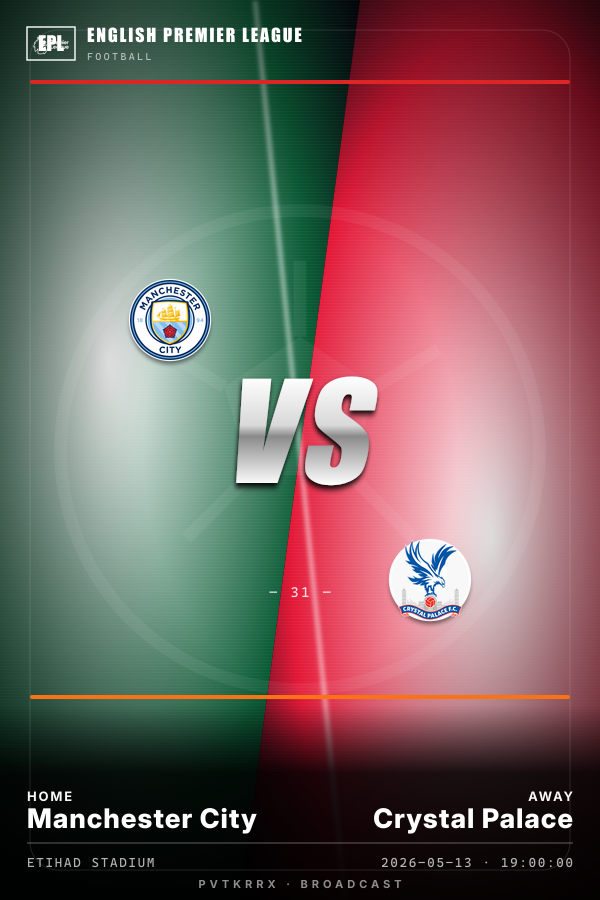
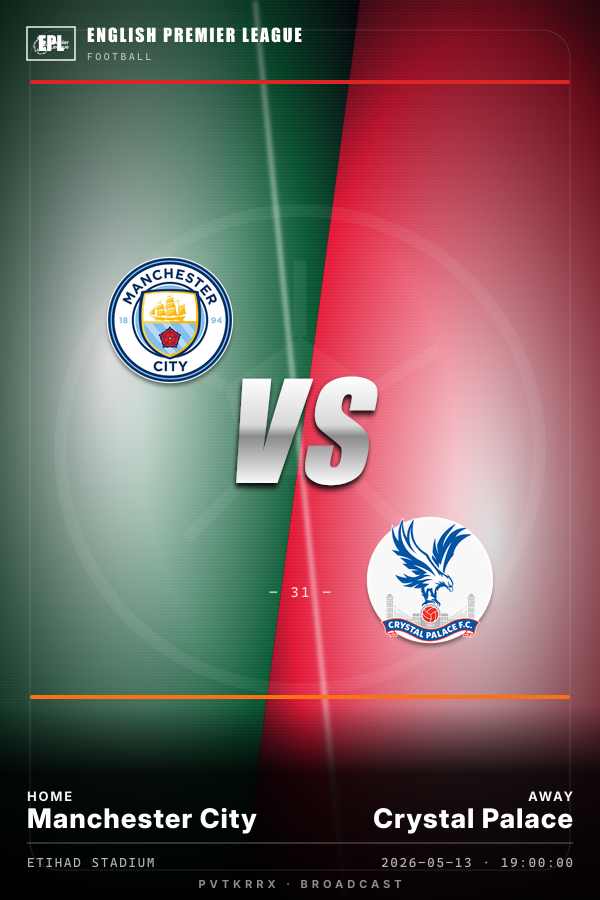
🎨 fix: broadcast team badges match trading-card / editorial size
Broadcast badge radius bumped from 40 -> 62 (80x80 -> 124x124) so the
real club crests render at the same visual weight as the other
SportsMeta-member templates:

  broadcast     80x80  -> 124x124   (this commit)
  sportsbook    100x100              (unchanged)
  editorial     116x116              (unchanged)
  trading-card  124x124              (unchanged)

VS chrome mark on the diagonal seam still has ~10px clearance from
both badges so the central focus is preserved.

Live renders + gallery sample regenerated. broadcast.png 383,389 ->
405,756 bytes; trading-card.png re-baked by the same script for byte
stability.

No template logic changed; only the disc geometry.

Changed region(s): [[0.6, 0.56, 0.84, 0.7467], [0.18, 0.28, 0.39, 0.4356]]

diff --git a/src/utils/sportsPosterTemplates.js b/src/utils/sportsPosterTemplates.js
@@ -1188,10 +1188,13 @@ function renderBroadcast(event = {}, variant = 'poster', theme = {}, mode = '') 
   // Filled with each side's primary colour, white ring, white code text — readable at thumbnail size.
   const homePrimary = home.primary || '#1f2a44'
   const awayPrimary = away.primary || '#3a1c1c'
-  // Audit fix (2026-05-05): badges shrunk from 52→40 so the central chrome VS
-  // regains primary focus on team-vs-team posters. Real SportsMeta logos drop
-  // into these slots later; the sized-down disc is the fallback weight.
-  const badgeR = 40
+  // Badge radius matched to trading-card / editorial weight (~124px diameter
+  // on the 600x900 canvas) so the real club crests read at the same scale as
+  // the other SportsMeta-member templates. Earlier 40px radius left them
+  // visually tiny next to the central chrome VS; 62px brings them in line
+  // with the rest of the family while still keeping ~10px clearance from
+  // the VS mark on the diagonal seam.
+  const badgeR = 62
   const homeBadgeX = 170
   const homeBadgeY = 320
   const awayBadgeX = 430
